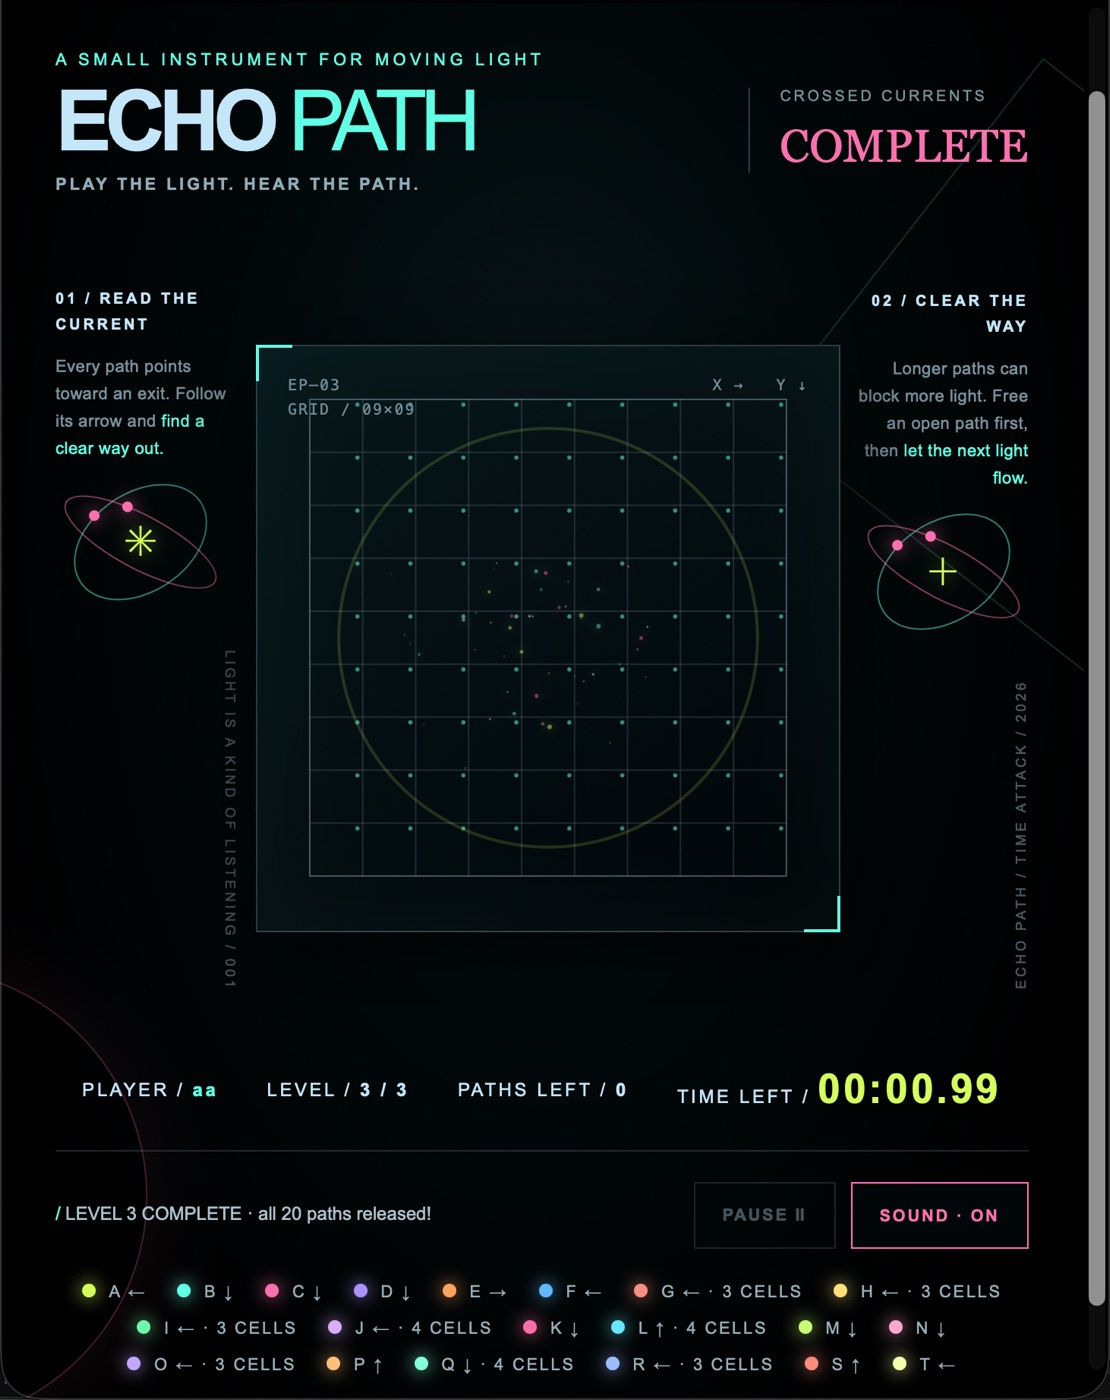
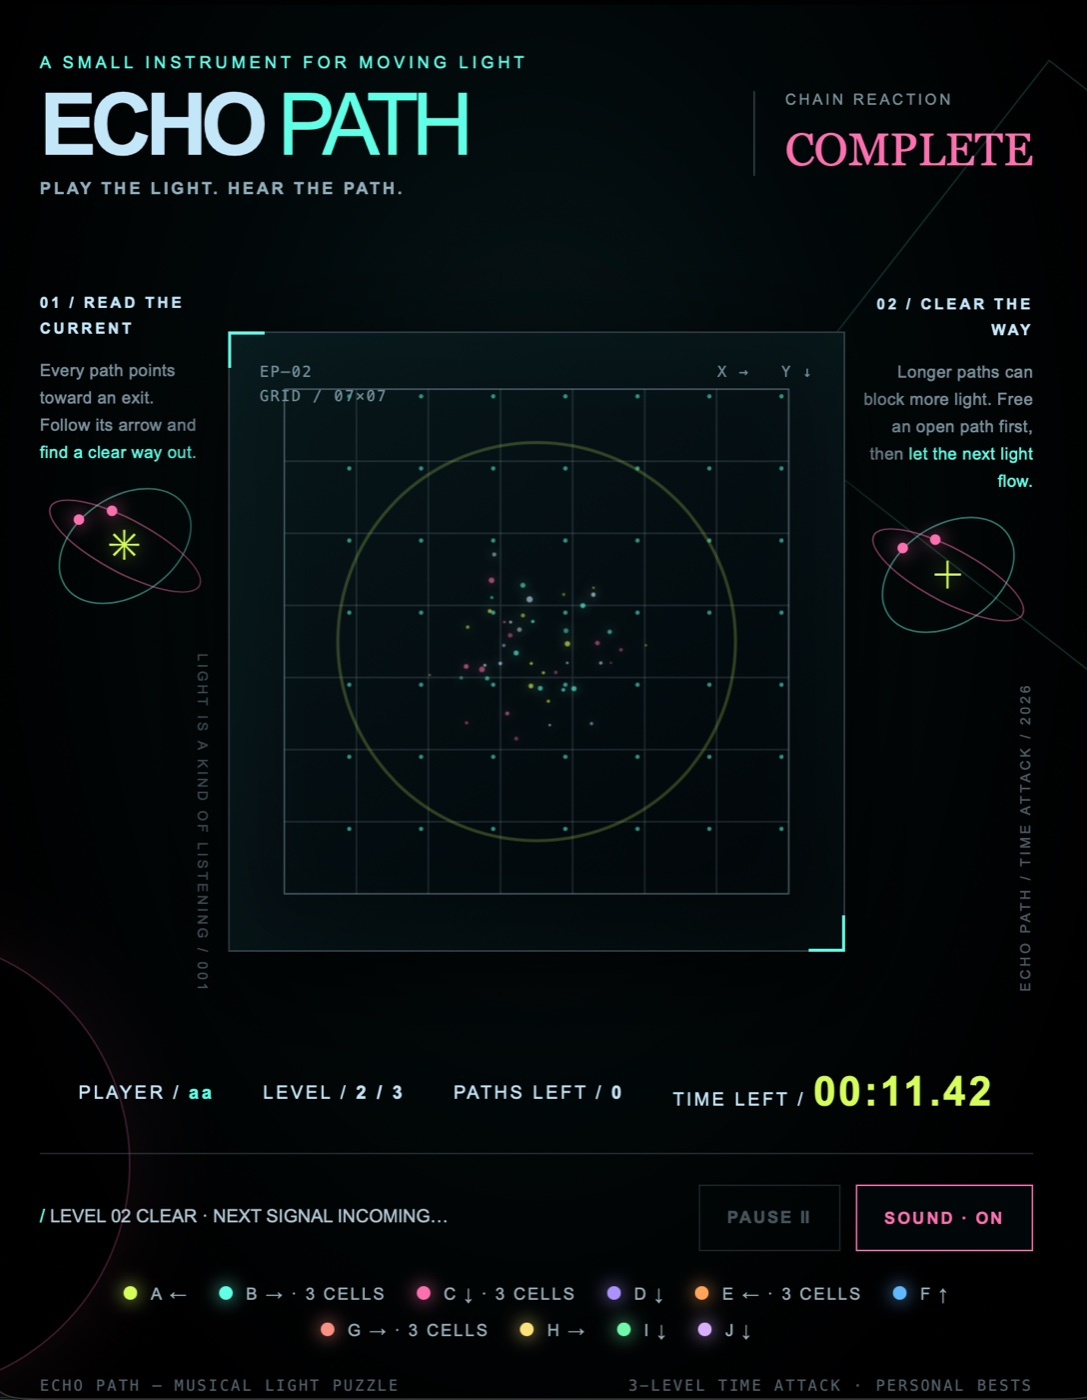
docs: improve final completion screenshot

diff --git a/PROCESS.md b/PROCESS.md
@@ -720,7 +720,7 @@ The final interface uses continuous luminous paths, clearer directional arrows w
 
 ![Updated onboarding screen](assets/screenshots/final-welcome.jpg)
 
-![Final completion animation](assets/screenshots/final-success.jpg)
+![Final level completion prompt](assets/screenshots/final-success.jpg)
 
 The revised onboarding screen communicates the intended 10-, 20-, and 40-second limits. Completion animations provide immediate visual feedback for successful play.
 

diff --git a/README.md b/README.md
@@ -85,9 +85,9 @@ The three levels gradually introduce more paths and more complicated spatial rel
 
 ![Final Level 03 gameplay](assets/screenshots/final-level-03.jpg)
 
-**Completion Animation**
+**Level Completion Feedback**
 
-![Glowing level completion animation](assets/screenshots/final-success.jpg)
+![Final level completion prompt](assets/screenshots/final-success.jpg)
 
 **Final Results and Leaderboard**
 
